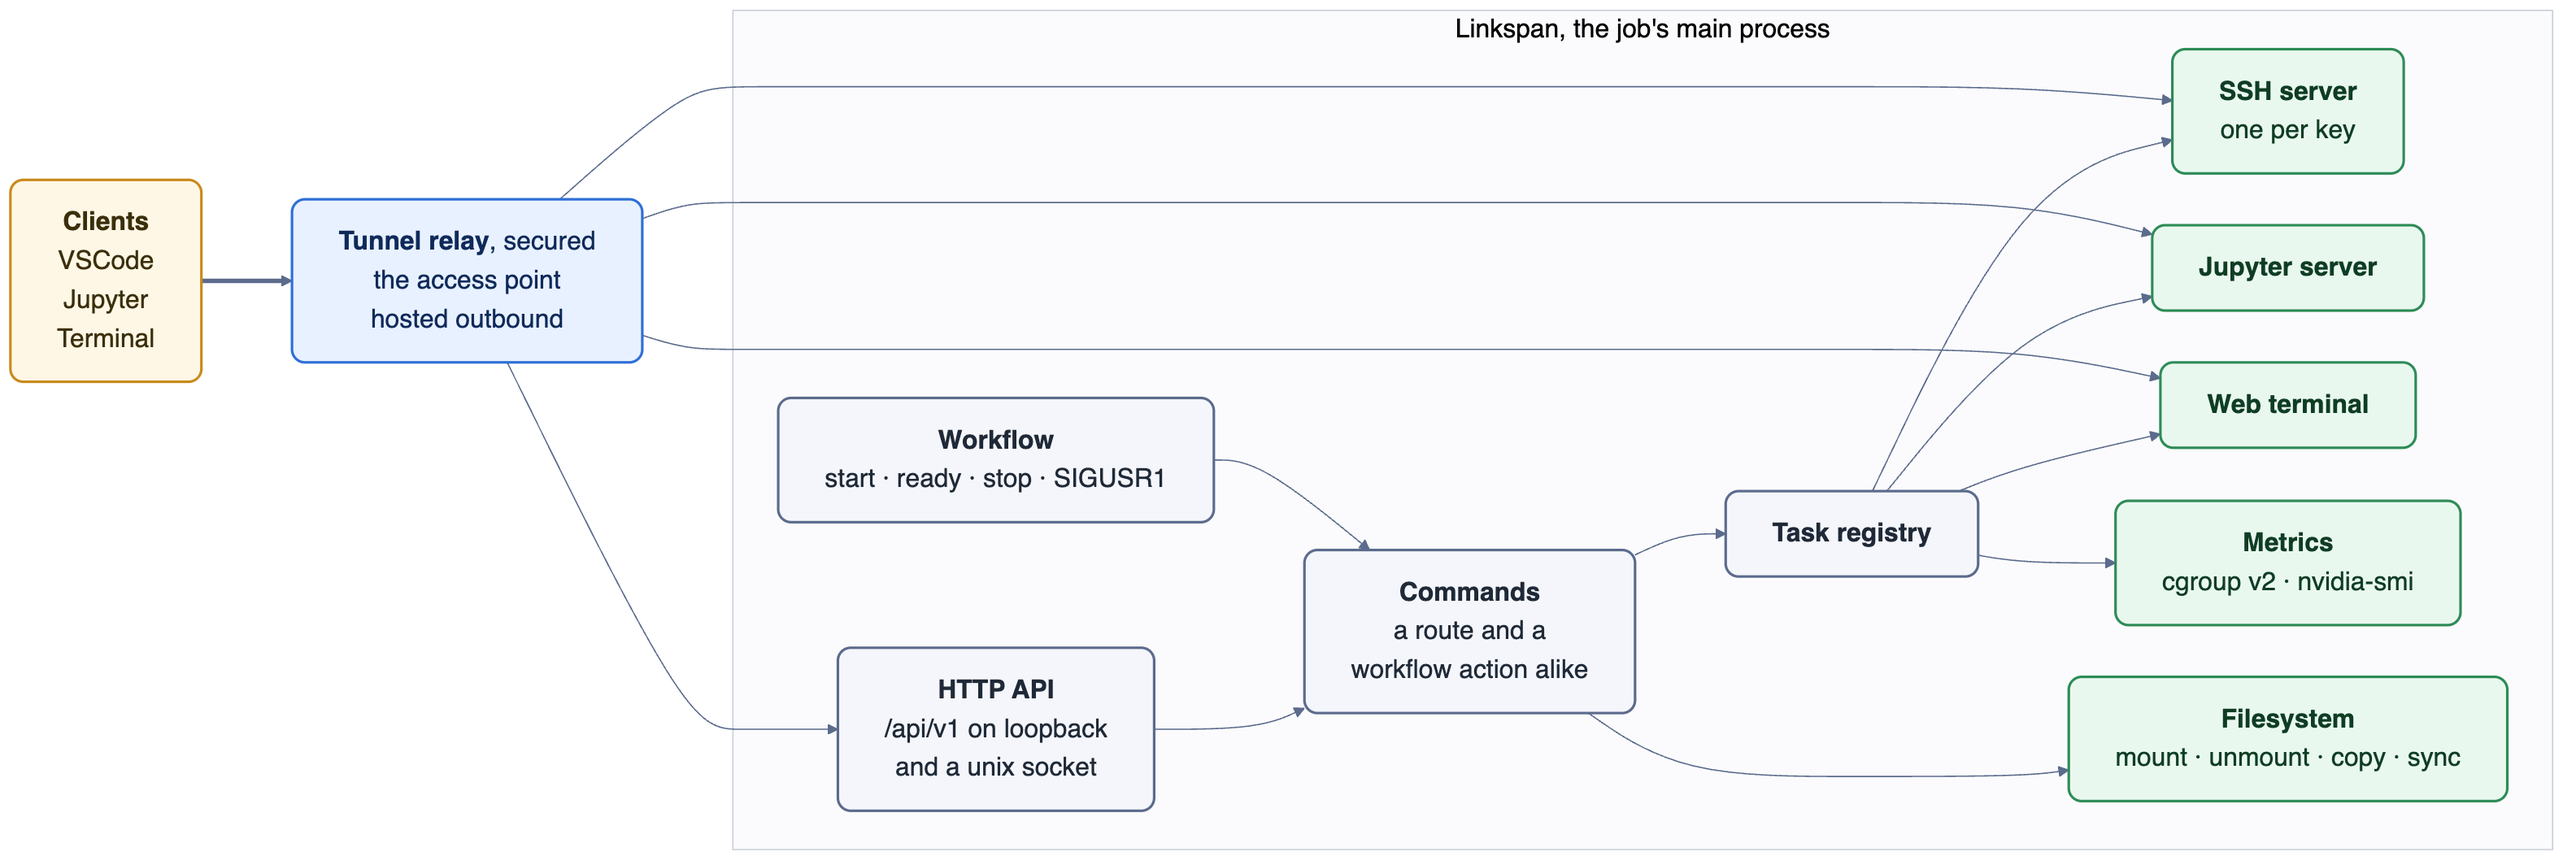
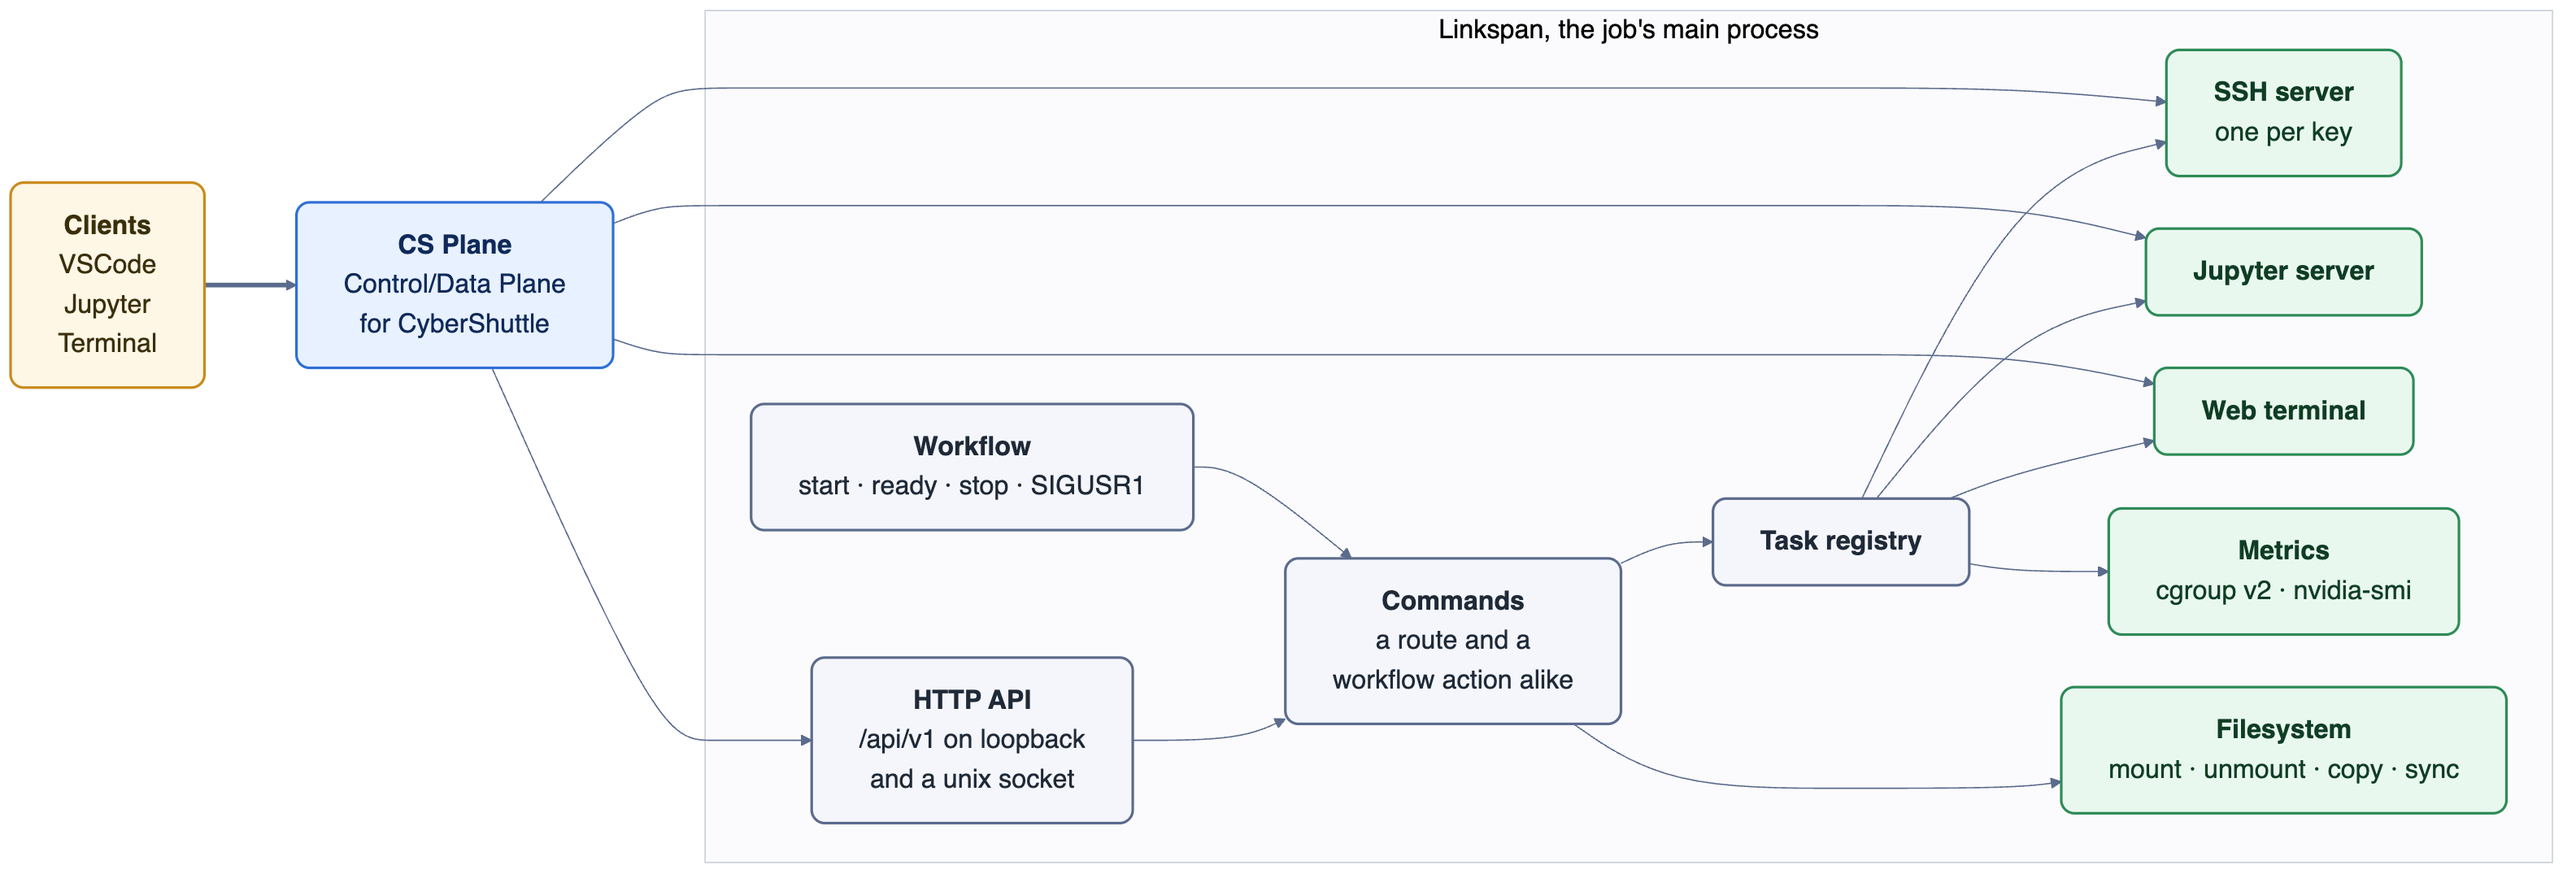
Show CS Plane in the architecture figure (#64)

diff --git a/README.md b/README.md
@@ -20,7 +20,7 @@ come with research on HPC.
 - **Workflows (WIP).** Steps that run at set points in the job's life, from a file. Each action is also a
   route of the HTTP API.
 
-![Architecture: clients reach the tunnel relay, which reaches the HTTP API and the SSH, Jupyter and terminal servers Linkspan runs as tasks](docs/assets/architecture.png)
+![Architecture: clients reach CS Plane, which reaches the HTTP API and the SSH, Jupyter and terminal servers Linkspan runs as tasks](docs/assets/architecture.png)
 
 Compute nodes sit behind a login node and a firewall. To get through, the client creates a
 [Dev Tunnel](https://learn.microsoft.com/en-us/azure/developer/dev-tunnels/overview) and Linkspan hosts
